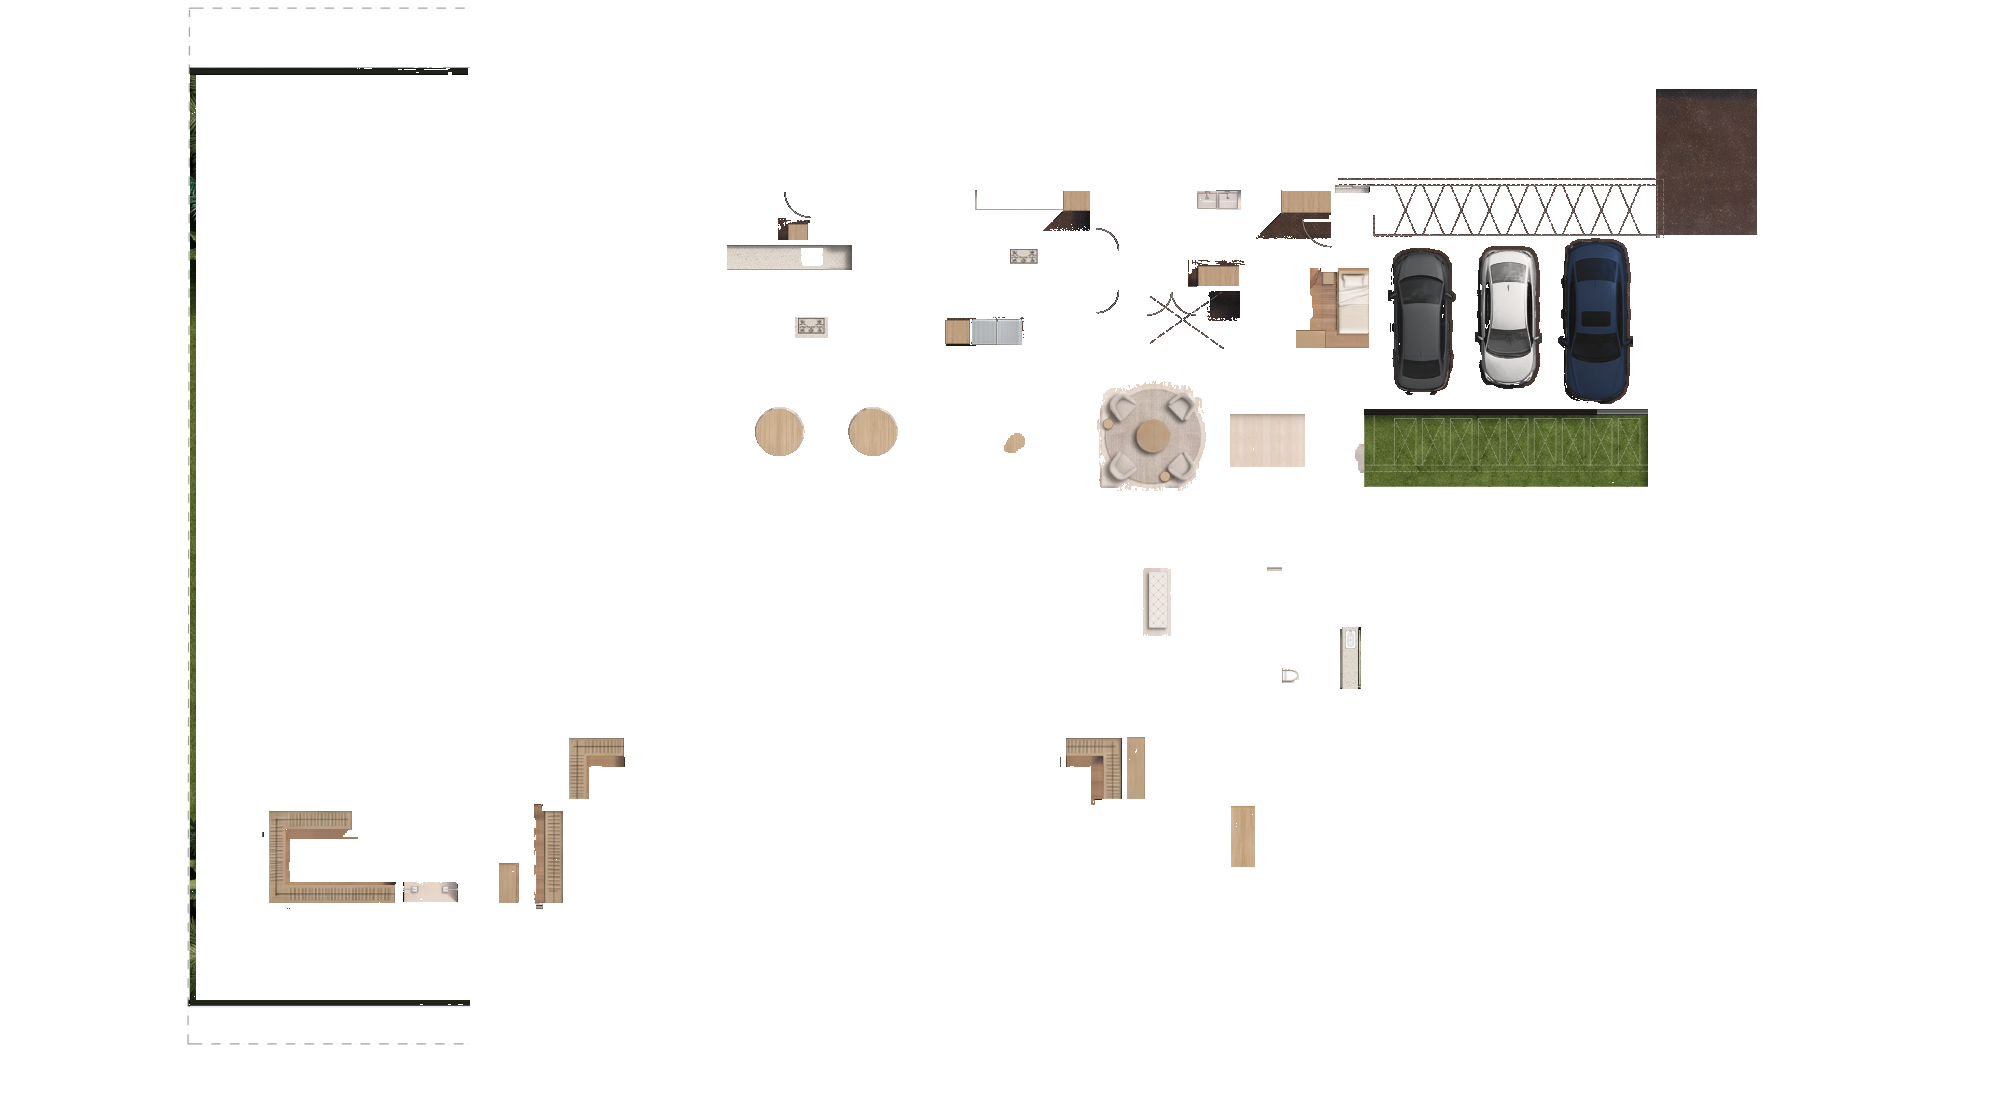
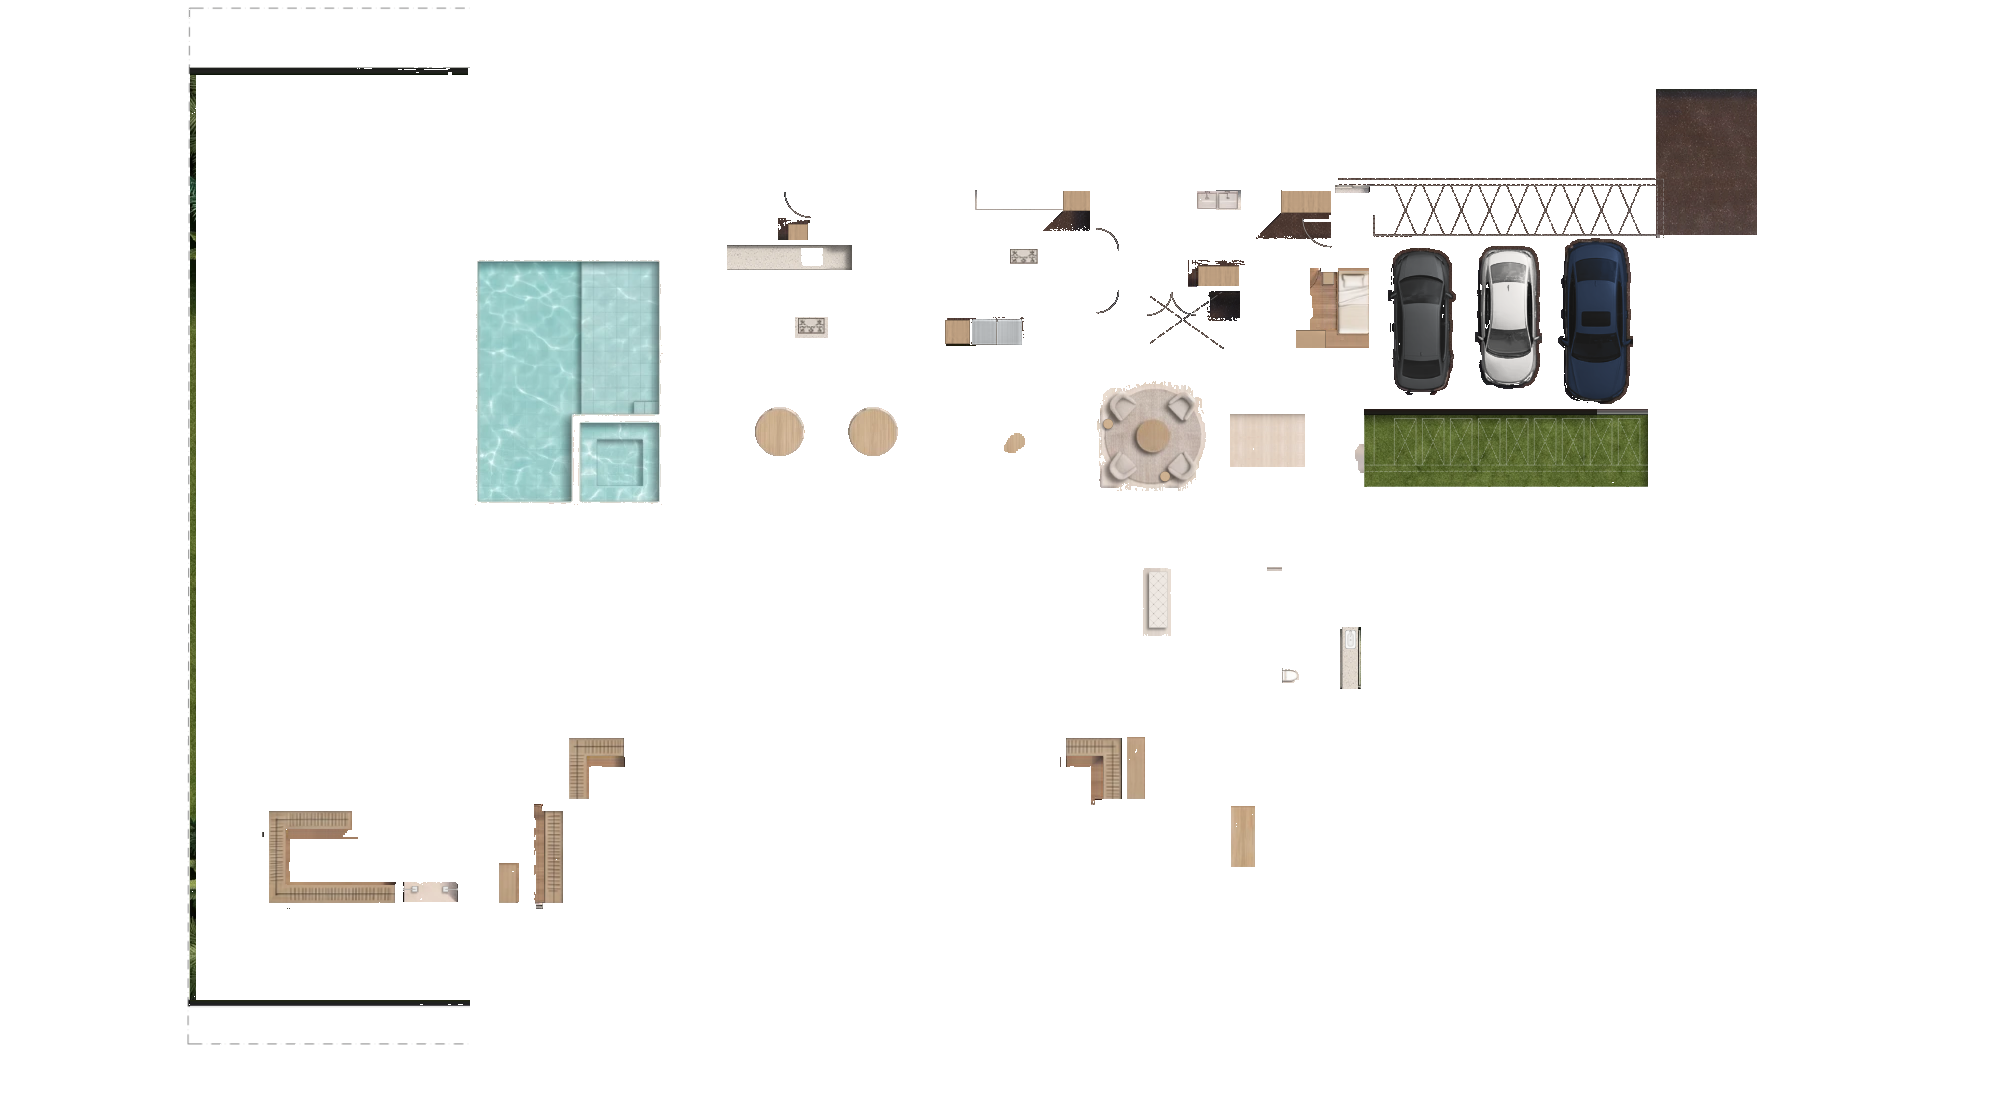
Casa D: erros 18 e 19, spa e degrau da prainha com a água da segunda imagem
Claude-Session: https://claude.ai/code/session_01Mm19WX3KoLN1nXMDF5Ay3F

Changed region(s): [[0.217, 0.2133, 0.341, 0.457]]

diff --git a/projetos/POE642_CasaA/scripts/retoque_terreo_casad.py b/projetos/POE642_CasaA/scripts/retoque_terreo_casad.py
@@ -111,6 +111,11 @@ Os itens são corrigidos um a um, na ordem pedida pelo usuário.
    escritório, o tampo vem da segunda imagem (sem planta), com o tom ajustado ao tampo do render; na
    mesa de jantar (a segunda imagem também tem planta), cada coluna do tampo liga a madeira de cima à
    de baixo da planta (o veio é vertical).
+24. Erros 18 e 19 da lista (spa e degrau entre a piscina e a prainha): o motor fez o degrau interno do
+   spa só em dois lados e o degrau estreito como uma faixa de água escura. A água da piscina, da
+   prainha e do spa vem da segunda imagem (degrau do spa nos quatro lados, degrau estreito em água
+   clara, prainha com o piso em grade e os degraus de canto), onde qualquer das duas imagens tem água,
+   com emenda curta; a borda de pedra fica a do render.
 
 As coordenadas estão em px do render (2000 x 1116).
 
@@ -462,6 +467,13 @@ PLANTAS_MESAS = {
     "retangulos_fonte2": [(1231, 806, 1255, 867)],
     "jantar": (998, 397, 1035, 490),
 }
+
+# piscina, prainha e spa (erros 18 e 19): o motor fez o degrau interno do spa só em dois lados (no PDF
+# contorna os quatro) e o degrau estreito entre a piscina e a prainha como uma faixa de água escura.
+# A água das três vem da segunda imagem (degrau do spa nos quatro lados, degrau estreito em água
+# clara, prainha com o piso em grade e os degraus de canto): onde qualquer das duas imagens tem água,
+# com emenda curta; a borda de pedra fica a do render
+PISCINA = {"janela": (470, 255, 665, 505), "agua": 30, "emenda": 1.0}
 
 
 def alinhar_base(render):
@@ -1526,6 +1538,20 @@ def plantas_mesas(out, f2):
     return out
 
 
+def piscina(out, f2, orig):
+    q = PISCINA
+    x0, y0, x1, y1 = q["janela"]
+    a2 = f2[y0:y1, x0:x1].astype(np.int32)
+    a1 = orig[y0:y1, x0:x1].astype(np.int32)
+    agua = ((a2[..., 0] - a2[..., 2]) > q["agua"]) | ((a1[..., 0] - a1[..., 2]) > q["agua"])
+    agua = cv2.morphologyEx(agua.astype(np.uint8), cv2.MORPH_CLOSE, np.ones((5, 5), np.uint8))
+    a = cv2.GaussianBlur(agua.astype(np.float32), (0, 0), q["emenda"])[..., None]
+    reg = out[y0:y1, x0:x1].astype(np.float32)
+    out[y0:y1, x0:x1] = np.clip(reg * (1 - a) + a2 * a, 0, 255).astype(np.uint8)
+    print("    piscina, prainha e spa: água da segunda imagem (degraus do spa nos quatro lados)")
+    return out
+
+
 def main():
     ap = argparse.ArgumentParser(description=__doc__, formatter_class=argparse.RawDescriptionHelpFormatter)
     ap.add_argument("render", type=Path)
@@ -1586,6 +1612,8 @@ def main():
     out = mesa_redonda(out, f2, orig)
     print("[22] erro 17: plantas sobre as mesas")
     out = plantas_mesas(out, f2)
+    print("[23] erros 18 e 19: spa e degrau entre a piscina e a prainha")
+    out = piscina(out, f2, orig)
 
     args.saida.mkdir(parents=True, exist_ok=True)
     cv2.imwrite(str(args.saida / f"{args.nome}.png"), out)

diff --git a/projetos/POE642_CasaA/scripts/README.md b/projetos/POE642_CasaA/scripts/README.md
@@ -253,6 +253,7 @@ Mesmo método da Casa C (render retocado sem IA, item por item, na ordem pedida 
 - **Banco capitonê (erro 15):** as poltronas saem por interpolação vertical coluna a coluna (veios verticais); o banco é desenhado em 8x (corpo, vincos em losango, botões, borda) com a sombra deslocada e desfocada.
 - **Segunda imagem:** `alinhar_fonte2` (SIFT + afim) leva a segunda imagem ao render; `armarios_fonte2` cola os armários dos quartos dela; `mesa_redonda` cola o conjunto da mesa (círculo do tapete e diferenças perto das poltronas, com o tom ajustado), tira a planta (`interpolar` em várias escalas, com o veio) e desenha as mesinhas.
 - **Plantas sobre as mesas (erro 17):** tampos da segunda imagem (disco ou retângulo, tom ajustado pela mediana da madeira) e, na mesa de jantar, interpolação vertical coluna a coluna sob a planta e a sombra dela.
+- **Piscina (erros 18 e 19):** água da segunda imagem onde qualquer das duas tem água (B - R > 30), fechada e com emenda gaussiana; a borda é a do render.
 
 ```bash
 python retoque_terreo_casad.py ../../POE642_CasaD/renders/POE642_CasaD_PH_Terreo_v1_render.webp --saida ../../POE642_CasaD/renders --nome POE642_CasaD_PH_Terreo_v1_retocado

diff --git a/projetos/POE642_HANDOFF_SESSAO_LOCAL.md b/projetos/POE642_HANDOFF_SESSAO_LOCAL.md
@@ -389,3 +389,4 @@ python texturizar_base.py Subsolo ../../POE642_CasaC/bases/POE642_CasaC_BASE_Sub
   21. segunda imagem do motor (`renders/POE642_CasaD_PH_Terreo_v1_render_fonte2.webp`, trazida pelo usuário): fonte de elementos prontos. Armários dos quartos: os closets com cabides dela, no tom areia.
   22. erro 16 da lista: mesa redonda, tapete e poltronas da segunda imagem (mesa no diâmetro do PDF), sem a planta, e as duas mesinhas do PDF. O tapete segue redondo (no PDF é orgânico).
   23. erro 17 da lista: plantas fora das mesas (gourmet e escrivaninha com os tampos da segunda imagem; jantar por interpolação vertical no veio).
+  24. erros 18 e 19 da lista: a água da piscina, da prainha e do spa vem da segunda imagem (degrau do spa nos quatro lados; o degrau estreito sem a faixa escura).
